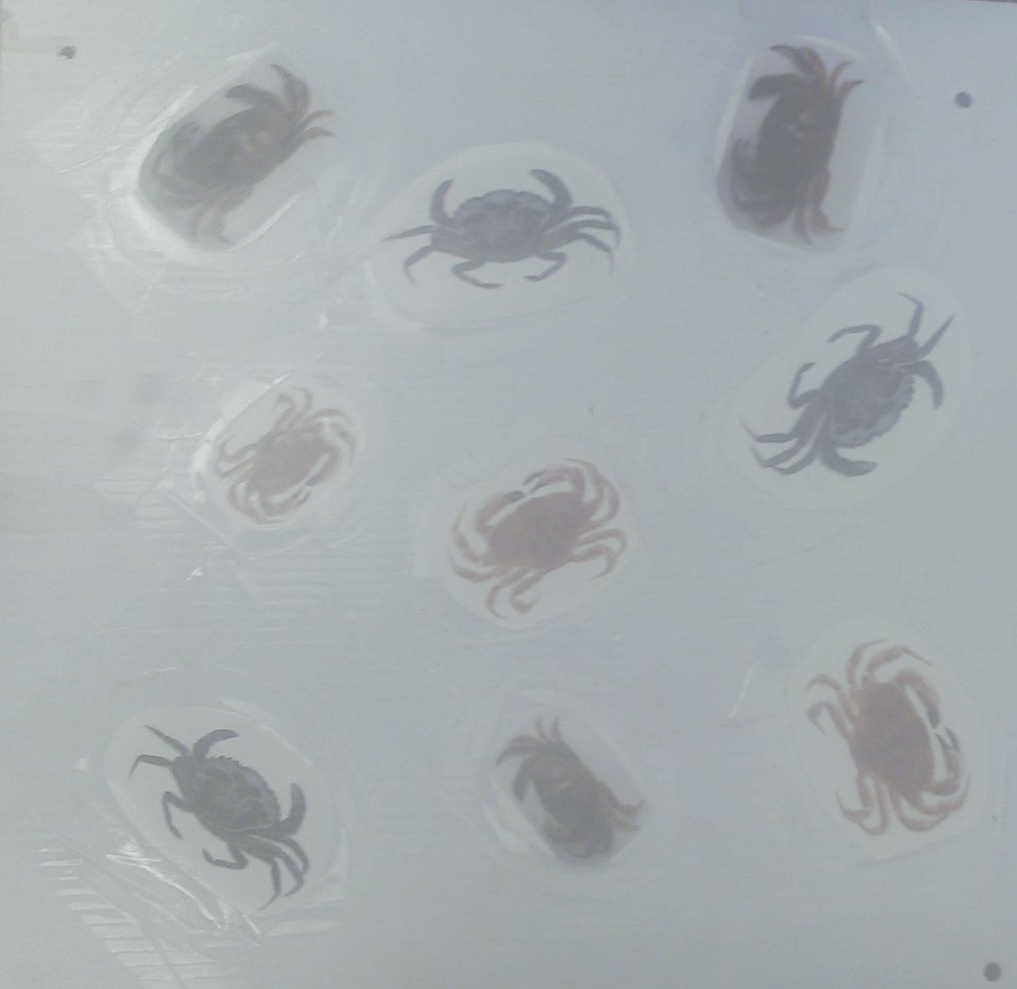
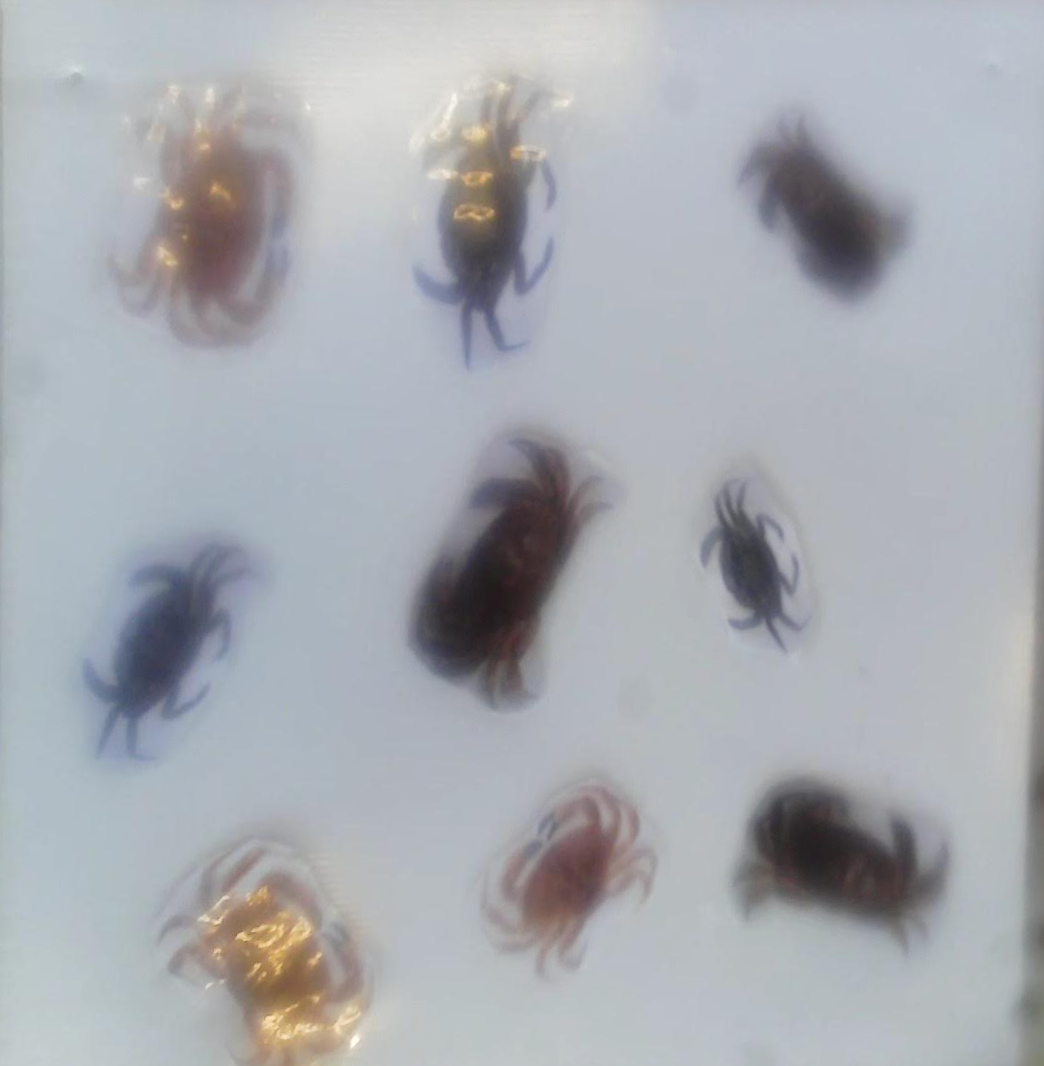
mostly working

diff --git a/float_graphing_UI/main.py b/float_graphing_UI/main.py
@@ -42,13 +42,14 @@ def circleButton(x,y,radius,image,color,strcol):
     draw_texture(img,x-radius,y-radius,WHITE)
     if is_mouse_button_pressed(MouseButton.MOUSE_BUTTON_LEFT):
         if dist((get_mouse_x(),get_mouse_y()),(x,y)) <= radius:
-            nfds.append(["draw_circle("+str(x)+","+str(y)+","+str(radius+5)+","+strcol+")",500])
+            nfds.append(["draw_circle("+str(x)+","+str(y)+","+str(radius+5)+","+strcol+")",5])
             return(True)
     return(False)
-teamnumber = "???"
+teamnumber = "RN27"
 mainfont = str(os.path.relpath(__file__).replace("main.py","mononoki-Regular.ttf"))
 async def main():
     init_window(width, height, "soup")
+    set_target_fps(60)
     current_profile = 0
     connected = False
     line=""
@@ -78,7 +79,7 @@ async def main():
         draw_text_ex(font,("WHERE ARE YOU!?!?","ok hi :)")[connected],Vector2(1100+(randint(0,10)-5)*((connected+1)%2),400+(randint(0,10)-5)*((connected+1)%2)),40,2,R_GREEN)
         draw_text_ex(font,("RADIO??","")[DoSerial],Vector2(1100+(randint(0,10)-5)*((DoSerial+1)%2),500+(randint(0,10)-5)*((DoSerial+1)%2)),40,2,R_GREEN)
         draw_text_ex(font,"The Rays",Vector2(0,0),40,2,R_GREEN)
-        draw_text_ex(font,"Team Number:"+teamnumber,Vector2(200,0),40,2,W_PURPLE2)
+        draw_text_ex(font,"Team Number:"+["idk",teamnumber][connected],Vector2(200,0),40,2,W_PURPLE2)
         draw_line(190,0,190,50,WHITE)
         
         draw_line(0,50,width,50,WHITE)
@@ -104,24 +105,18 @@ async def main():
             connected = not connected
 
         if circleButton(1340,140,50,"HIBUTTON",BLUE,"BLUE"):
-            if not connected:
-                ser.write(bytes('AT+SEND=27,1,H\r\n',"utf-8"))
-                print("H")
-            else:
-                ser.write(bytes('AT+SEND=27,1,r\r\n',"utf-8"))
-                print("n")
+            ser.write(bytes('AT+SEND=27,1,H\r\n',"utf-8"))
+            print("H")
+        if circleButton(1480,140,50,"HIBUTTON",RED,"RED"):
+            ser.write(bytes('AT+SEND=27,1,U\r\n',"utf-8"))
+            print("U")
         if circleButton(1200,140,50,"DIVEBUTTON",W_PURPLE2,"W_PURPLE2"):
             print("D")
             ser.write(bytes('AT+SEND=27,1,D\r\n',"utf-8"))
 
-            print("D")
-
-        if circleButton(1200,500,50,"DIVEBUTTON",YELLOW,"YELLOW"):
-            print("D")
-            ser.write(bytes('AT+SEND=27,1,E\r\n',"utf-8"))
-
-            print("D")
-
+        # if circleButton(1200,500,50,"DIVEBUTTON",YELLOW,"YELLOW"):
+        #     print("D")
+        #     ser.write(bytes('AT+SEND=27,1,E\r\n',"utf-8"))
 
         for point in profiles[current_profile]:
             I = profiles[current_profile].index(point)

diff --git a/testing/bouancySim/main.py b/testing/bouancySim/main.py
@@ -9,7 +9,6 @@ img_path = os.path.join(base_path, "float.png")
 init_window(400, 800, "FLOAT SIM")
 set_target_fps(60)
 
-
 texture = None
 if os.path.exists(img_path):
     image = load_image(img_path)
@@ -21,7 +20,7 @@ doserial = True
 ser = serial.Serial('COM6', 9600, timeout=5, write_timeout=0) 
 
 
-L, G, S, M = 100, 9.8, 24.73, 4.53
+L, G, S, M = 100, 9.8, 11.2, 6.8
 sm = M
 Y, V, EM = 0, 0, 0
 
@@ -32,26 +31,29 @@ while not window_should_close():
             line = ser.readline().decode().strip()
             print(line)
             if "D" in line:
-                M = sm + (((float(line.replace("D",""))-1000) / 655) * 50) + EM
-            
+                syri = ((float(line.replace("D","")) - 1000) / 655) * 7
+                print(syri)
+                M = sm
+                M += EM 
+                if syri != 0:
+                    M +=syri
         except: pass
-
-    
     dt = get_frame_time()
     if is_mouse_button_pressed(0): EM += 1
     if is_mouse_button_pressed(1): EM -= 1
     
-    screen_y = (Y * 170) + L
+    screen_y = (Y * (170/2)) + L
+
     total_force = M * G
     
     if screen_y + 20 > L:
         sub = max(0, min(1.0, (screen_y + 20 - L) / 40.0))
-        total_force -= (S * sub) *10
+        total_force -= (S * sub * 10) 
         V *= 1 - (sub * 0.05)
 
     V += (total_force / M) * dt
-    Y += V * dt 
-    if Y > 4: Y, V = 4, V * -0.1
+    Y += V * dt
+    if Y > 8: Y, V = 8, V * -0.1
 
     
     begin_drawing()

diff --git a/misc/coral3d/3d.py b/misc/coral3d/3d.py
@@ -53,7 +53,6 @@ if measure:
 				p1 = clicks[-2]
 				p2 = clicks[-1]
 				
-				# Calculate distance using box_w as a scale (e.g., 10cm wide)
 				pixel_dist = dist(p1, p2)
 				real_dist = round(pixel_dist / (box_w / 10), 2)
 				